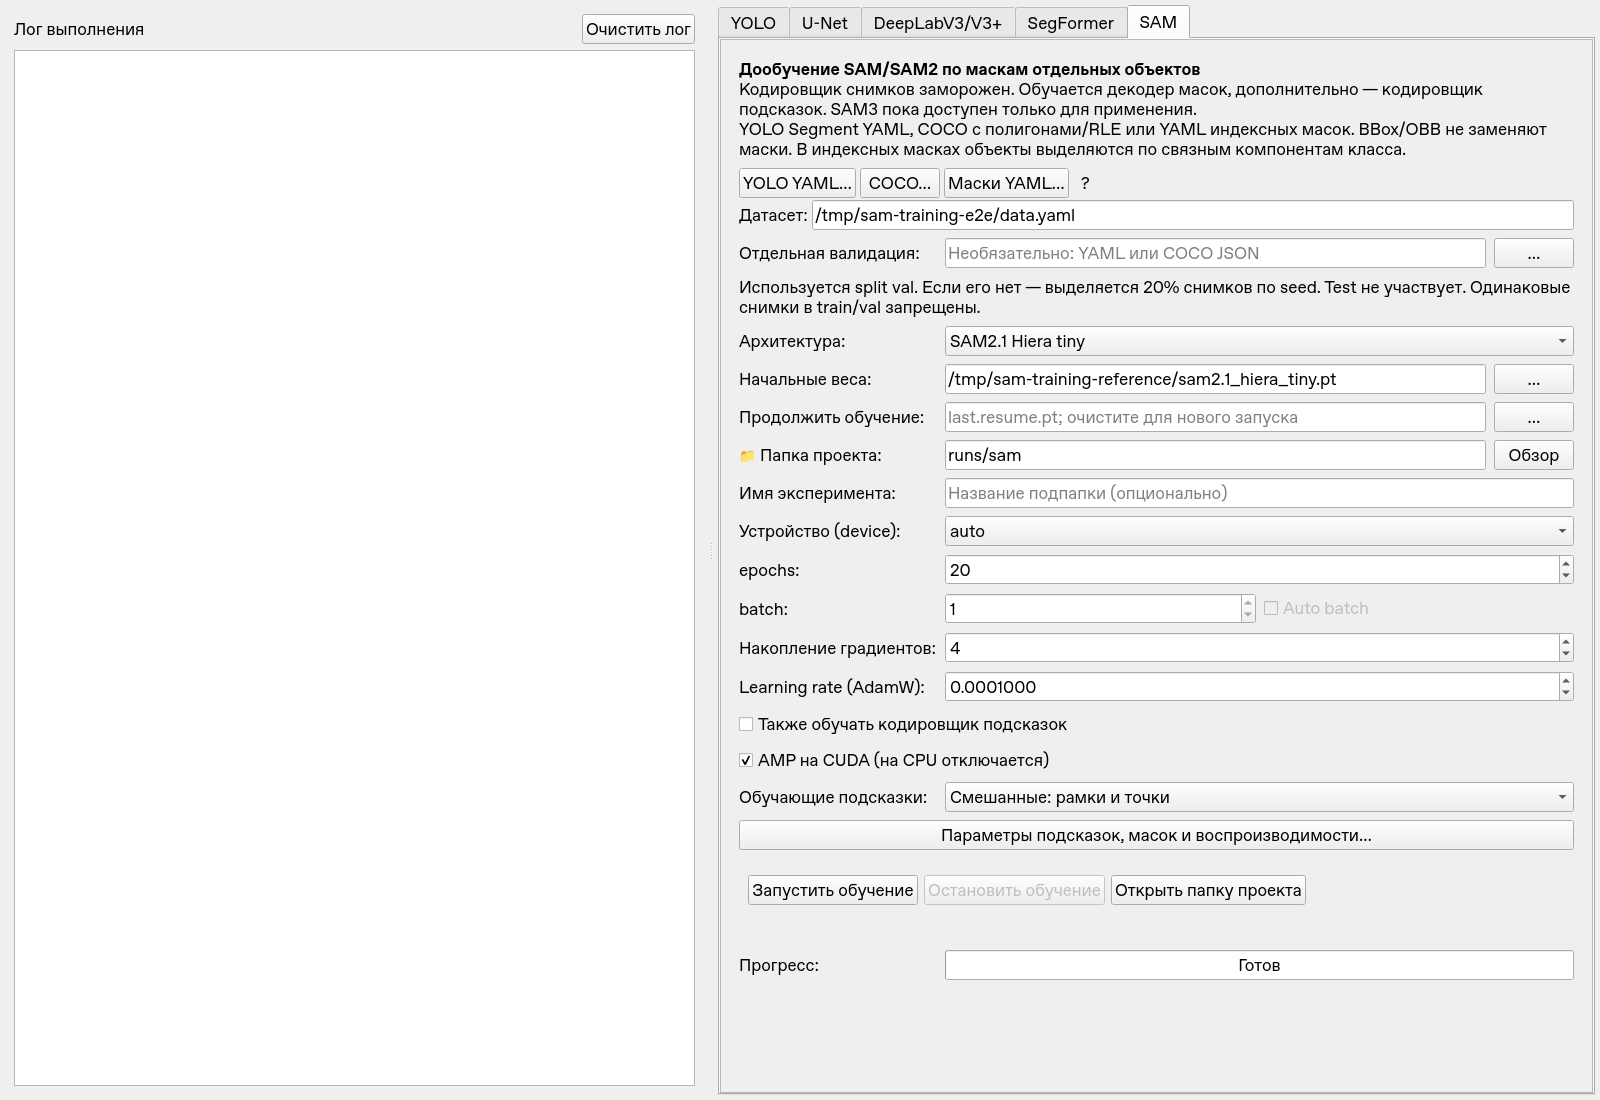
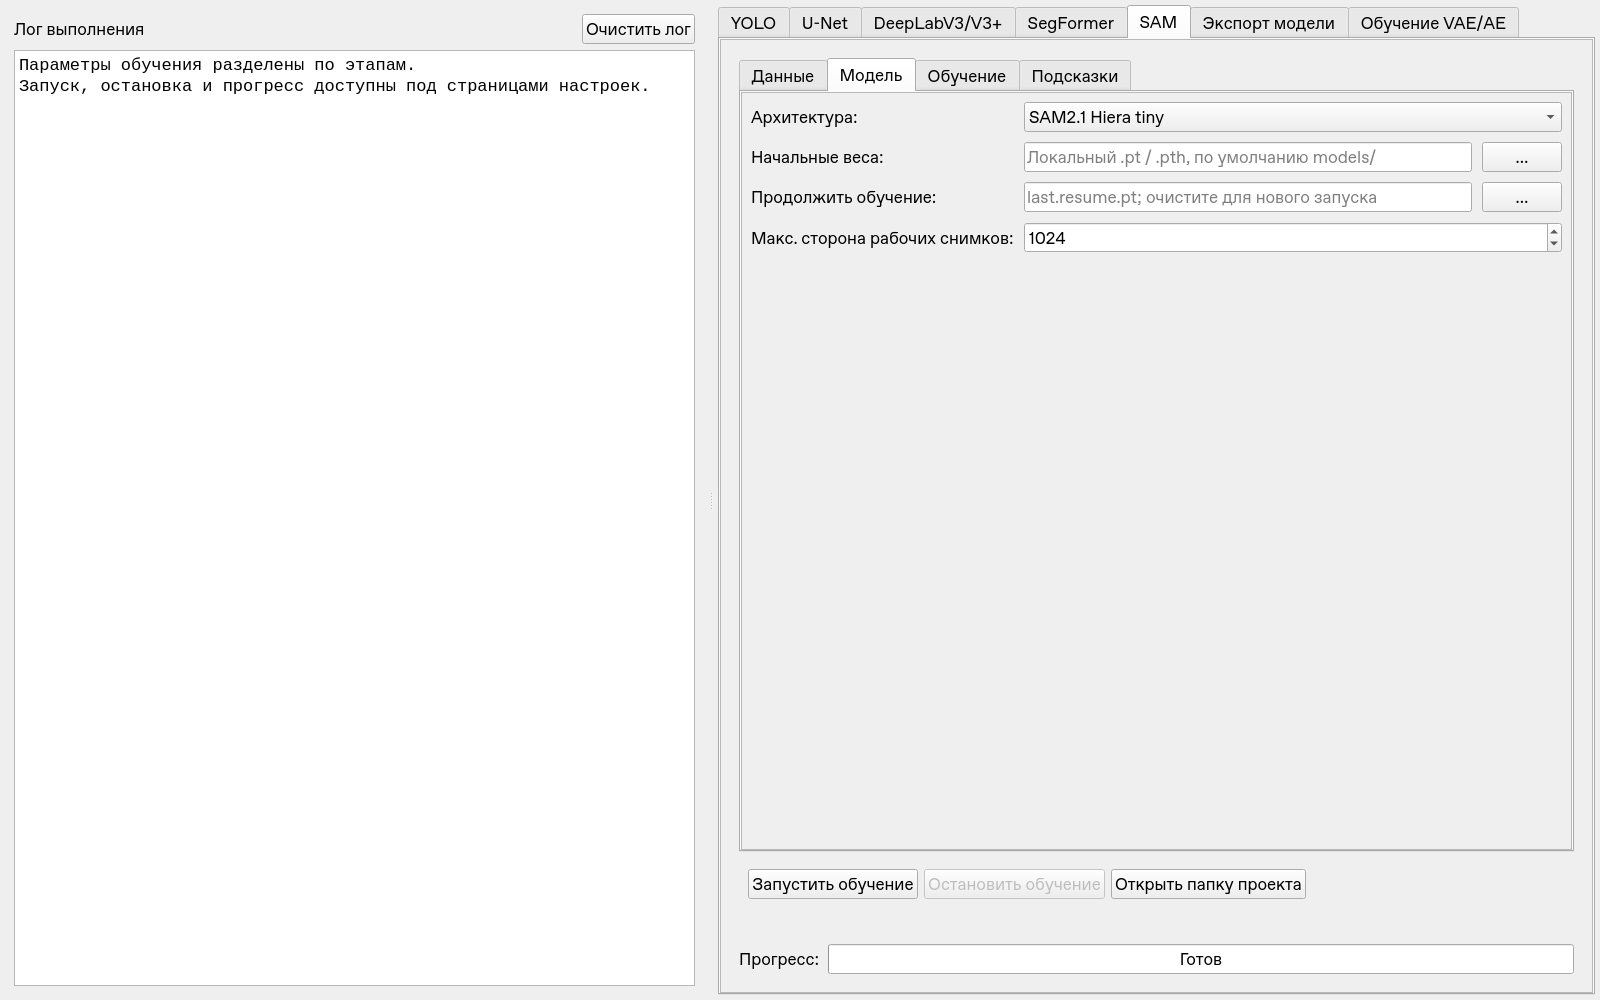
Group training parameters into shared stage tabs across model families

diff --git a/ui/DL_train_settings_base.py b/ui/DL_train_settings_base.py
@@ -17,6 +17,8 @@ from PyQt5.QtWidgets import (
     QPushButton,
     QRadioButton,
     QSpinBox,
+    QTabWidget,
+    QScrollArea,
     QVBoxLayout,
     QWidget,
 )
@@ -46,6 +48,70 @@ class BaseTrainWidget(QWidget):
         hint_widget.setWordWrap(True)
         # hint_widget.setStyleSheet("background-color: #f0f0f0; padding: 8px; border-radius: 4px; font-family: monospace;")
         self.form_layout.addRow(hint_widget)
+
+    def organize_training_stages(self, extra=None):
+        """Move intact form rows by widget identity, retaining all signal bindings.
+
+        Each stage owns its scroll area. Controls/progress remain outside pages;
+        layouts and model-source groups are moved whole, never reconstructed.
+        """
+        from collections import OrderedDict
+        stages = OrderedDict((key, (title, names)) for key,title,names in (
+            ('data','Данные',('dataset_source','ignore_index','background_id')),
+            ('model','Модель',('model_from_preset','model_from_file','preset_widget','file_widget',
+                              'model','weights','resume','imgsz','input_size','num_classes','architecture',
+                              'encoder','variant','dropout','normalize_checkbox','resize_mode_combo','atrous_rates','max_side')),
+            ('training','Обучение',('device_combo','epochs','batch','lr','lr0','lrf','optimizer','scheduler',
+                                   'preset_path','two_phase_check','freeze_epochs','freeze_bn_second_phase',
+                                   'accum_steps','train_prompt_encoder','use_amp','max_objects','seed')),
+            ('augmentation','Аугментации',('enable_mosaic','close_mosaic','mosaic','disable_aug',
+                                          'aug_hflip','aug_vflip','aug_rotate','aug_scale','aug_noise')),
+            ('loss','Потери',('loss','class_weights_mode')),
+            ('validation','Валидация',('threshold','multi_scale_infer','infer_scales')),
+            ('advanced','Дополнительно',('use_ema','use_layerwise_lr')),
+            ('prompts','Подсказки',('prompt_type','positive_points','negative_points','advanced_button')),
+        ))
+        # Specialized rows/groups can override the common anchor membership.
+        for key,names in (extra or {}).items():
+            title,old = stages[key]
+            stages[key] = title,tuple(names)+old
+        def contains(item,widget):
+            if widget is None or item is None:return False
+            owner = item.widget()
+            if owner is not None:return owner is widget or owner.isAncestorOf(widget)
+            layout = item.layout()
+            return layout is not None and any(contains(layout.itemAt(i),widget) for i in range(layout.count()))
+        rows,footer = {key:[] for key in stages},[]
+        while self.form_layout.rowCount():
+            row = self.form_layout.takeRow(0)
+            if any(contains(row.fieldItem,getattr(self,name,None)) for name in ('buttons_widget','status_label','progress_bar')):
+                footer.append(row);continue
+            selected = 'data'
+            # Advanced groups may contain optimization controls as well as EMA.
+            for key in ('advanced','prompts','augmentation','loss','validation','model','training','data'):
+                if any(contains(row.fieldItem,getattr(self,name,None)) for name in stages[key][1]):
+                    selected = key;break
+            rows[selected].append(row)
+        self.settings_tabs = QTabWidget()
+        self.stage_forms,self.stage_widgets = {},{}
+        def add_row(form,row):
+            field = row.fieldItem.widget() or row.fieldItem.layout()
+            if row.labelItem is not None:form.addRow(row.labelItem.widget(),field)
+            else:form.addRow(field)
+        for key,(title,_) in stages.items():
+            if not rows[key]:continue
+            content = QWidget()
+            form = QFormLayout(content)
+            form.setSpacing(10);form.setFormAlignment(Qt.AlignTop)
+            form.setRowWrapPolicy(QFormLayout.WrapLongRows)
+            for row in rows[key]:add_row(form,row)
+            scroll = QScrollArea()
+            scroll.setWidgetResizable(True);scroll.setWidget(content)
+            self.stage_forms[key],self.stage_widgets[key] = form,content
+            self.settings_tabs.addTab(scroll,title)
+        self.form_layout.addRow(self.settings_tabs)
+        for row in footer:add_row(self.form_layout,row)
+        self.layout.setStretch(0,1)
 
     def add_experiment_name_field(self):
         self.experiment_name = QLineEdit()
@@ -159,6 +225,8 @@ class BaseTrainWidget(QWidget):
     def set_running(self, running):
         self.run_btn.setEnabled(not running)
         self.stop_btn.setEnabled(running)
+        if hasattr(self,'settings_tabs'):
+            self.settings_tabs.setEnabled(not running)
         if not running:
             self.progress_bar.setValue(0)
             self.progress_bar.setFormat("Готов")
@@ -218,6 +286,7 @@ class YOLOTrainWidget(BaseTrainWidget):
         self.add_buttons()
         self.add_progress_bar()
         self._update_preview()
+        self.organize_training_stages()
 
     def _browse_dataset_folder(self):
         path = source_dialogs.get_directory(self, "dataset_root")
@@ -475,6 +544,7 @@ class UNetTrainWidget(BaseTrainWidget):
 
         # Реагируем на ручное изменение поля YAML
         self.unet_yaml.textChanged.connect(self._on_unet_yaml_changed)
+        self.organize_training_stages()
 
     def _browse_dataset(self):
         path = source_dialogs.get_directory(self, "dataset_root")

diff --git a/tests/test_training_stages.py b/tests/test_training_stages.py
@@ -1,0 +1,89 @@
+"""Stage navigation must preserve worker payloads and live widget behavior."""
+import os
+from pathlib import Path
+import subprocess
+import sys
+import unittest
+
+ROOT=Path(__file__).resolve().parents[1]
+
+@unittest.skipUnless(os.environ.get('NEURO_RUN_GUI_TESTS')=='1','opt-in Qt')
+class TrainingStageUI(unittest.TestCase):
+    def test_payloads_footer_and_model_source_switches_survive_grouping(self):
+        code=r'''
+from pathlib import Path
+from tempfile import TemporaryDirectory
+from unittest.mock import patch
+from PyQt5.QtWidgets import QApplication,QMessageBox
+from ui.DL_train_settings_base import BaseTrainWidget,YOLOTrainWidget,UNetTrainWidget
+from ui.DL_train_settings_new_model import DeepLabV3TrainWidget,SegFormerTrainWidget
+from ui.sam.training import SAMTrainWidget
+app=QApplication([]);errors=[]
+QMessageBox.warning=lambda *a,**k:errors.append(str(a[2])) or QMessageBox.Ok
+with TemporaryDirectory() as directory:
+ root=Path(directory);source=root/'data.yaml'
+ source.write_text('path: .\ntrain: images/train\nval: images/val\nnames: [object]\n')
+ weights=root/'local.pt';weights.write_bytes(b'not loaded by UI parameter collection')
+ def prepare(widget):
+  widget.project_path.setText(str(root/'runs'))
+  if hasattr(widget,'dataset_folder'):widget.dataset_folder.setText(str(root))
+  elif hasattr(widget,'dataset_path'):widget.dataset_path.setText(str(root))
+  else:widget.source.setText(str(source));widget.weights.setText(str(weights))
+ for cls in (YOLOTrainWidget,UNetTrainWidget,DeepLabV3TrainWidget,SegFormerTrainWidget,SAMTrainWidget):
+  with patch.object(BaseTrainWidget,'organize_training_stages'):
+   before=cls();prepare(before);expected=before.get_params()
+  widget=cls();prepare(widget);actual=widget.get_params()
+  assert actual is not None and actual==expected,(cls.__name__,errors,actual,expected)
+  widget.resize(1000,750);widget.show();app.processEvents()
+  for index in range(widget.settings_tabs.count()):
+   widget.settings_tabs.setCurrentIndex(index);app.processEvents()
+   assert widget.run_btn.isVisible() and widget.progress_bar.isVisible(),cls.__name__
+   assert not widget.settings_tabs.isAncestorOf(widget.stop_btn)
+  widget.settings_tabs.setCurrentIndex(list(widget.stage_widgets).index('model'));app.processEvents()
+  if hasattr(widget,'model_from_file'):
+   widget.model_from_file.setChecked(True);app.processEvents()
+   assert widget.file_widget.isVisible() and widget.preset_widget.isHidden(),cls.__name__
+   widget.custom_model_path.setText(str(weights))
+   assert widget.get_params() is not None,errors
+   widget.model_from_preset.setChecked(True)
+   assert not widget.preset_widget.isHidden()
+  else:
+   widget.settings_tabs.setCurrentIndex(list(widget.stage_widgets).index('prompts'));app.processEvents()
+   assert widget.positive_points.isVisible() and widget.negative_points.isVisible()
+   assert widget.stage_widgets['data'].isAncestorOf(widget.ignore_index)
+  rate=widget.lr0 if hasattr(widget,'lr0') else widget.lr
+  rate.setValue(rate.value()*2)
+  assert widget.get_params()!=actual,cls.__name__
+  received=[];widget.run_training.connect(received.append)
+  widget.run_btn.click();assert received and received[0]==widget.get_params(),errors
+  stops=[];widget.stop_training.connect(lambda:stops.append(True))
+  widget.set_running(True);assert not widget.settings_tabs.isEnabled() and widget.stop_btn.isEnabled()
+  widget.stop_btn.click();assert stops
+  widget.set_running(False);assert widget.settings_tabs.isEnabled() and widget.run_btn.isEnabled()
+  before.close();widget.close();app.processEvents()
+ assert not errors,errors
+'''
+        result=subprocess.run([sys.executable,'-c',code],cwd=ROOT,capture_output=True,text=True,timeout=90)
+        self.assertEqual(result.returncode,0,result.stdout+result.stderr)
+
+    def test_deeplab_preset_and_two_phase_connections_work_across_stages(self):
+        code=r'''
+from PyQt5.QtWidgets import QApplication
+from ui.DL_train_settings_new_model import DeepLabV3TrainWidget
+app=QApplication([]);widget=DeepLabV3TrainWidget()
+widget.two_phase_check.setChecked(False);widget.two_phase_check.setChecked(True)
+widget.freeze_epochs.setValue(3);widget.unfreeze_epochs.setValue(8)
+assert widget.epochs.value()==11
+widget.two_phase_check.setChecked(False);assert widget.epochs.isEnabled()
+widget.class_weights_mode.setCurrentText('From file');assert widget.class_weights_file.isEnabled()
+widget.class_weights_mode.setCurrentText('None');assert not widget.class_weights_file.isEnabled()
+widget._apply_preset_dict(widget.HIGH_RES_PRESET)
+assert widget.num_classes.value()>0
+for name,stage in [('scheduler','training'),('num_classes','model'),('use_amp','advanced'),('threshold','validation'),('aug_hflip','augmentation'),('loss','loss')]:
+ assert widget.stage_widgets[stage].isAncestorOf(getattr(widget,name)),name
+widget.close()
+'''
+        result=subprocess.run([sys.executable,'-c',code],cwd=ROOT,capture_output=True,text=True,timeout=60)
+        self.assertEqual(result.returncode,0,result.stdout+result.stderr)
+
+if __name__=='__main__':unittest.main()

diff --git a/ui/DL_train_settings_new_model.py b/ui/DL_train_settings_new_model.py
@@ -138,6 +138,7 @@ class DeepLabV3TrainWidget(BaseTrainWidget):
         # Применяем HIGH_RES_PRESET
         self._apply_preset_dict(self.HIGH_RES_PRESET)
         self.preset_path.setText("preset.txt")
+        self.organize_training_stages()
 
     # ------------------------------------------------------------------
     # Пресет (вверху окна)
@@ -456,7 +457,6 @@ class DeepLabV3TrainWidget(BaseTrainWidget):
         sched_layout = QHBoxLayout()
         self.scheduler = QComboBox()
         self.scheduler.addItems(["Poly", "Step", "Cosine", "ReduceLROnPlateau", "None"])
-        sched_layout.addWidget(QLabel("Scheduler:"))
         sched_layout.addWidget(self.scheduler)
 
         self.poly_power = QDoubleSpinBox()
@@ -475,10 +475,9 @@ class DeepLabV3TrainWidget(BaseTrainWidget):
                 "sigmoid" if value == 1 else "softmax" if value == 2 else "argmax"
             )
         )
-        sched_layout.addWidget(QLabel("  Классов:"))
-        sched_layout.addWidget(self.num_classes)
         sched_layout.addStretch()
-        self.form_layout.addRow("Прочее:", sched_layout)
+        self.form_layout.addRow("Scheduler:", sched_layout)
+        self.form_layout.addRow("Количество классов (вкл. фон):", self.num_classes)
 
     def _add_preprocessing_fields(self):
         prep_layout = QHBoxLayout()
@@ -529,6 +528,10 @@ class DeepLabV3TrainWidget(BaseTrainWidget):
         self.layerwise_decay.setValue(0.1)
         adv_layout.addRow("Layer-wise decay:", self.layerwise_decay)
 
+        self.form_layout.addRow(adv_group)
+        validation_group = QGroupBox("Валидация")
+        adv_layout = QFormLayout(validation_group)
+
         self.multi_scale_infer = QCheckBox("Multi-scale inference на валидации")
         self.multi_scale_infer.setChecked(False)
         adv_layout.addRow(self.multi_scale_infer)
@@ -544,7 +547,7 @@ class DeepLabV3TrainWidget(BaseTrainWidget):
         self.threshold.setValue(0.5)
         adv_layout.addRow("Threshold:", self.threshold)
 
-        self.form_layout.addRow(adv_group)
+        self.form_layout.addRow(validation_group)
 
     def _add_augmentation_fields(self):
         aug_group = QGroupBox("Аугментации")
@@ -1051,6 +1054,7 @@ class SegFormerTrainWidget(BaseTrainWidget):
         self._add_segformer_specific()
         self.add_buttons()
         self.add_progress_bar()
+        self.organize_training_stages()
 
     def _browse_dataset(self):
         path = source_dialogs.get_directory(self, "dataset_root")

diff --git a/ui/sam/training.py b/ui/sam/training.py
@@ -81,22 +81,25 @@ class SAMTrainWidget(BaseTrainWidget):
         self.advanced_button.toggled.connect(self.advanced.setVisible)
         self.positive_points = self._integer("Точек объекта:", 1, 64, 1)
         self.negative_points = self._integer("Точек фона:", 0, 64, 1)
-        self.max_objects = self._integer("Объектов/снимок на эпоху (train):", 1, 10000, 8)
+        self.max_objects = self._integer("Объектов/снимок на эпоху (train):", 1, 10000, 8, form=self.form_layout)
         self.max_objects.setToolTip("Случайная выборка в train; валидация проверяет все объекты.")
-        self.max_side = self._integer("Макс. сторона рабочих снимков:", 32, 16384, 1024)
+        self.max_side = self._integer("Макс. сторона рабочих снимков:", 32, 16384, 1024, form=self.form_layout)
         self.max_side.setToolTip("Размер для масок и метрик. Внутренний размер выбранной SAM остаётся штатным.")
-        self.seed = self._integer("Seed:", 0, 2147483647, 42)
-        self.background_id = self._integer("Pixel ID фона (индексные маски):", 0, 65535, 0)
-        self.ignore_index = self._integer("Игнорируемый Pixel ID (-1 = нет):", -1, 65535, 255)
+        self.seed = self._integer("Seed:", 0, 2147483647, 42, form=self.form_layout)
+        self.background_id = self._integer("Pixel ID фона (индексные маски):", 0, 65535, 0, form=self.form_layout)
+        self.ignore_index = self._integer("Игнорируемый Pixel ID (-1 = нет):", -1, 65535, 255, form=self.form_layout)
         self.add_buttons()
         self.add_progress_bar()
         self._find_weights()
+        self.advanced_button.setChecked(True)
+        self.advanced_button.hide()
+        self.organize_training_stages()
 
-    def _integer(self, label, minimum, maximum, value):
+    def _integer(self, label, minimum, maximum, value, *, form=None):
         widget = QSpinBox()
         widget.setRange(minimum, maximum)
         widget.setValue(value)
-        getattr(self, "advanced_form", self.form_layout).addRow(label, widget)
+        (form if form is not None else getattr(self, "advanced_form", self.form_layout)).addRow(label, widget)
         return widget
 
     def set_running(self, running):

diff --git a/docs/yolo_train.md b/docs/yolo_train.md
@@ -10,6 +10,15 @@ YOLO принимает корень датасета/YOLO YAML; U-Net и DeepLa
 обучение SAM3 и SegFormer пока не подключено.
 AE/VAE обучаются без разметки по нормальным снимкам; [настройки и YAML](#обучение-vaeae).
 
+Параметры YOLO, U-Net, DeepLab, SAM и формы SegFormer разделены на внутренние
+страницы **«Данные» → «Модель» → «Обучение»**, затем доступные для этого метода
+**«Аугментации»**, **«Потери»**, **«Валидация»**, **«Дополнительно»**.
+У SAM отдельная страница **«Подсказки»**. Каждая страница прокручивается отдельно;
+запуск, остановка, папка результата и прогресс остаются под страницами.
+Во время обучения настройки блокируются, кнопка остановки остаётся доступной.
+
+![Этапы настройки обучения DeepLab](image/training_stages.png)
+
 1. Выберите архитектуру, источник данных, веса/backbone и число классов.
 2. Задайте папку проекта/run, устройство, размер, epochs и batch.
 3. Запустите обучение; следите за логом и метриками. Остановка завершает процесс.
